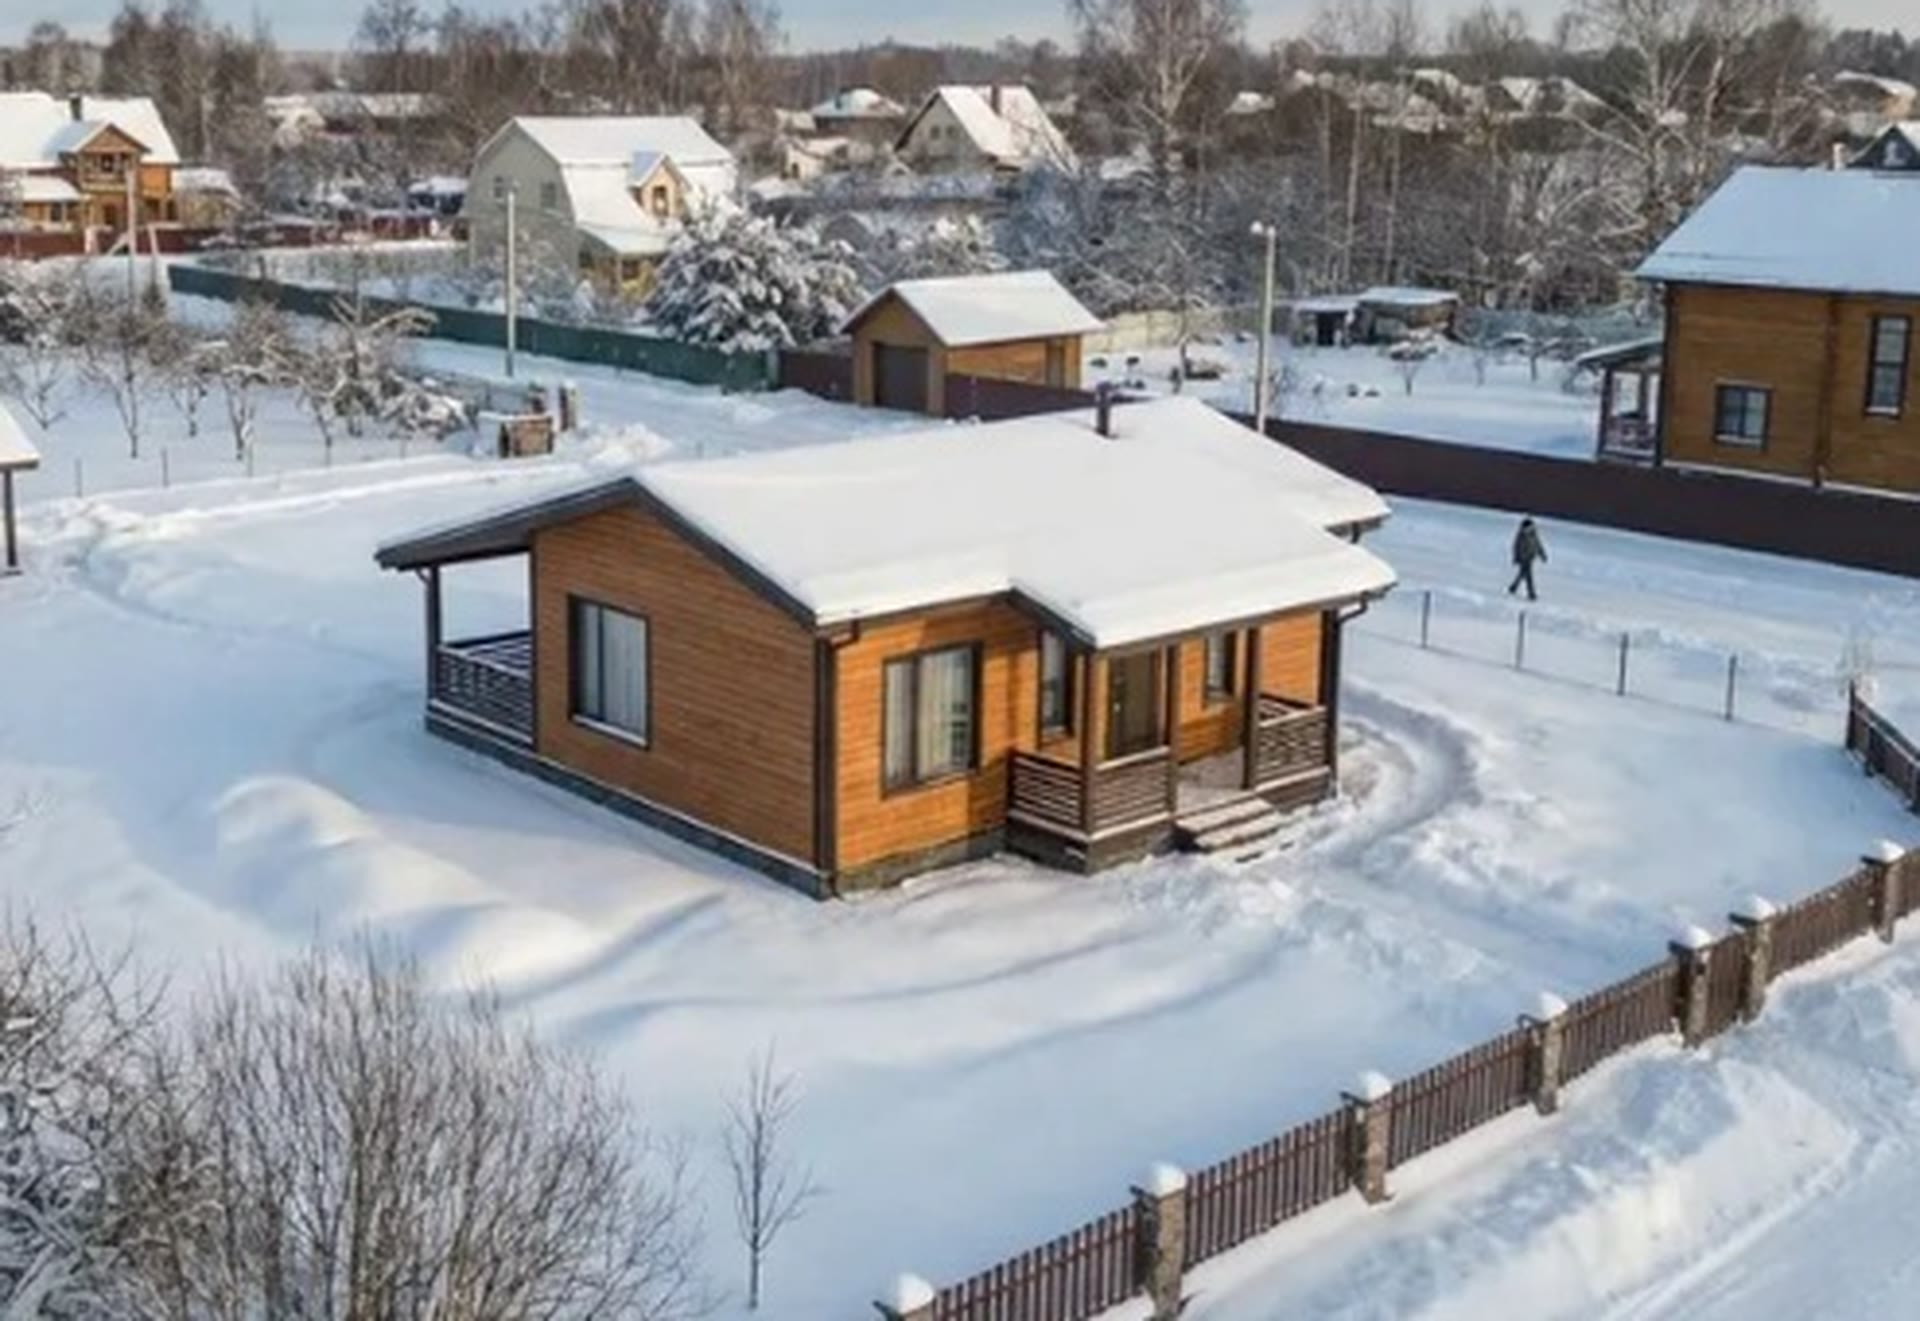
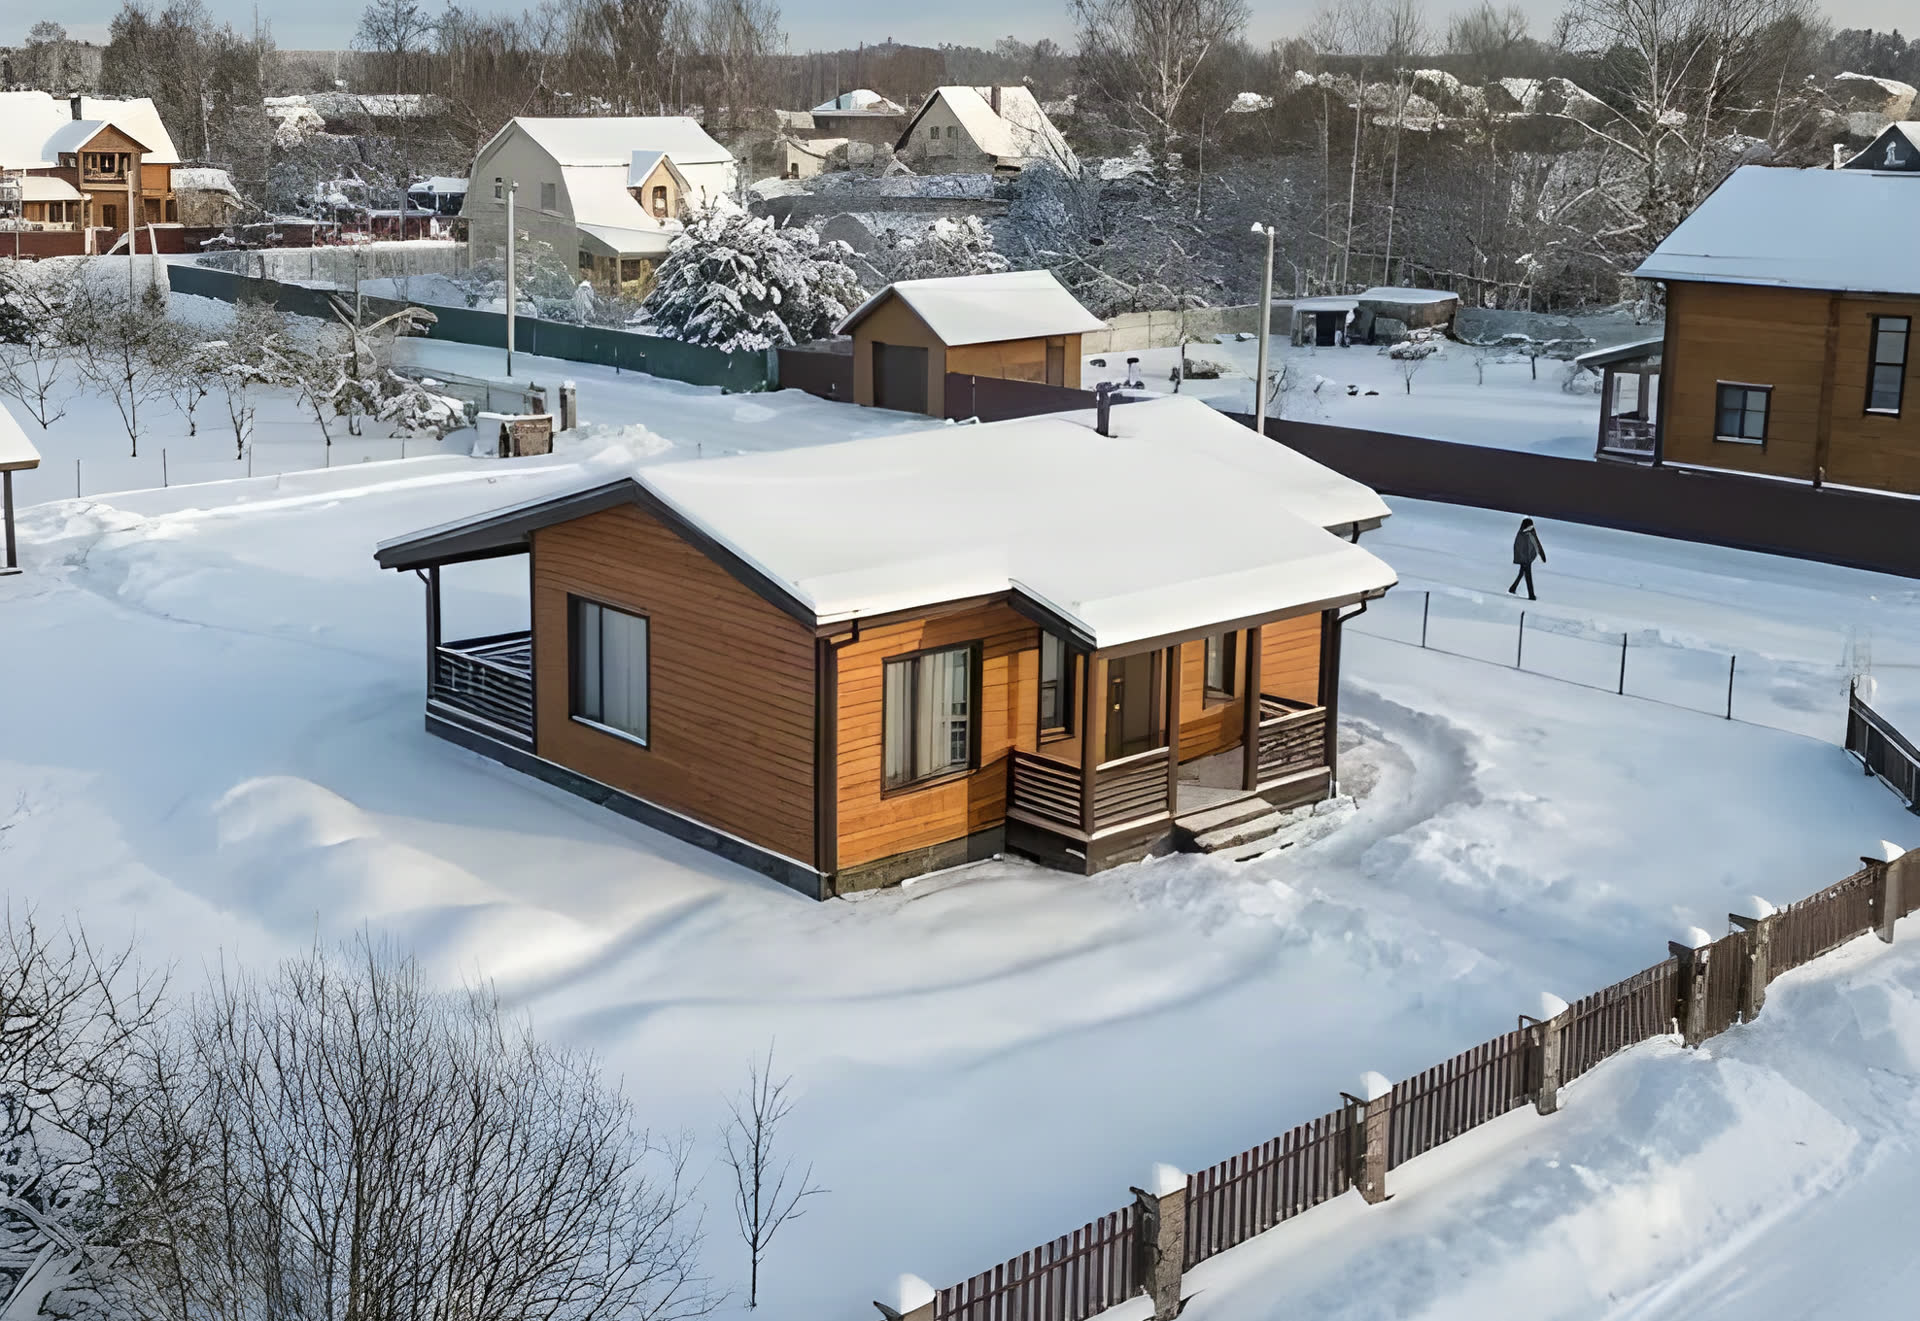
Апскейл зимнего фото через AI, «круглый год», аватар менеджера с отступом
Зимнее фото прогнано через fal-ai/esrgan (4x upscale, 494x396 -> 1976x1584)
перед тем же кропом для hero — заметно чётче, без мыла от растяжения
маленького исходника. В блок статистики добавлено «...круглый год».
Аватар менеджера перекроплен с большим отступом от лица (было слишком
близко), добавлен паддинг под цвет бренда, чтобы лицо целиком влезало
в круглую рамку виджета.

diff --git a/public/index.html b/public/index.html
@@ -110,7 +110,7 @@
     <div class="stats-grid">
       <div class="stat-tile">
         <strong>С 2019 года</strong>
-        <span>строим дома в Перми и крае</span>
+        <span>строим дома в Перми и крае круглый год</span>
       </div>
       <div class="stat-tile">
         <strong>50+ домов</strong>
